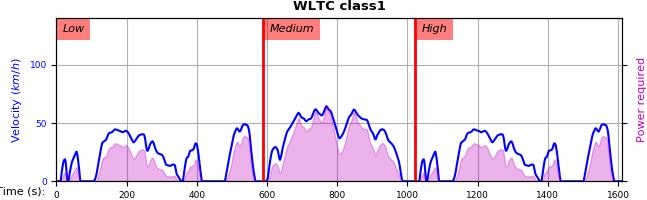
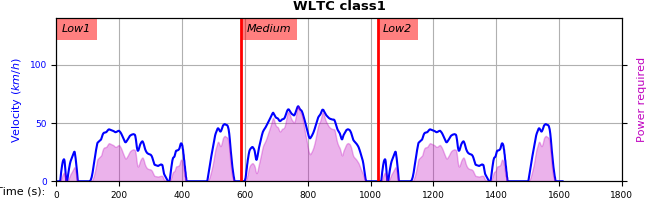
doc(CYCLEPLOTS): use same xlim for class1; FIX partnmames low1/2

diff --git a/bin/plotclass3.py b/bin/plotclass3.py
@@ -69,7 +69,7 @@ def make_class_fig(class_name, class_data):
     # Trial'n error
     v_pos = 135
     bbox = {"facecolor": "red", "alpha": 0.5, "pad": 4, "linewidth": 0}
-    txts = ["Low", "Medium", "High", "ExtraHigh"]
+    txts = datamodel.get_class_part_names(class_name)
     txts_pos = [0] + part_limits  # [0.40, 0.67, 0.85]
 
     for (txt, h_pos) in zip(txts, txts_pos):
@@ -87,8 +87,8 @@ def make_class_fig(class_name, class_data):
     ax1.grid()
     ax1.xaxis.grid = True
     ax1.yaxis.grid = True
-    ax1.autoscale(enable=True, tight=True, axis="x")
-    ax2.autoscale(enable=True, tight=True, axis="x")
+    xlim = [0, 1800]  # kmh
+    ax1.set_xlim(xlim)
     ylim = [0, 140]  # kmh
     ax1.set_ylim(ylim)
     ax2.set_ylim(ylim)

diff --git a/wltp/datamodel.py b/wltp/datamodel.py
@@ -658,12 +658,15 @@ def get_class_part_names(cls_name=None):
     """
     :param str cls_name: one of 'class1', ..., 'class3b', if missing, returns all 4 part-names
     """
-    part_names = ["Low", "Medium", "High", "ExtraHigh"]
+    if cls_name == "class1":
+        part_names = ["Low1", "Medium", "Low2"]
+    else:
+        part_names = ["Low", "Medium", "High", "ExtraHigh"]
 
     if cls_name:
         wltc_data = get_wltc_data()
         cls = wltc_data["classes"][cls_name]
-        part_names = part_names[: len(cls["parts"])]
+        part_names = part_names[: len(cls["parts"]) + 1]
 
     return part_names
 
